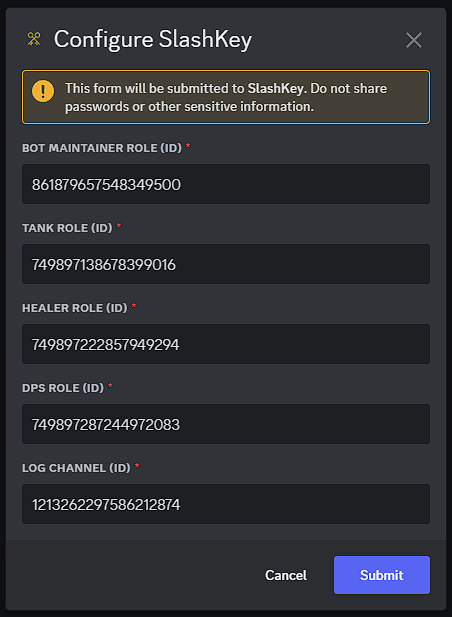
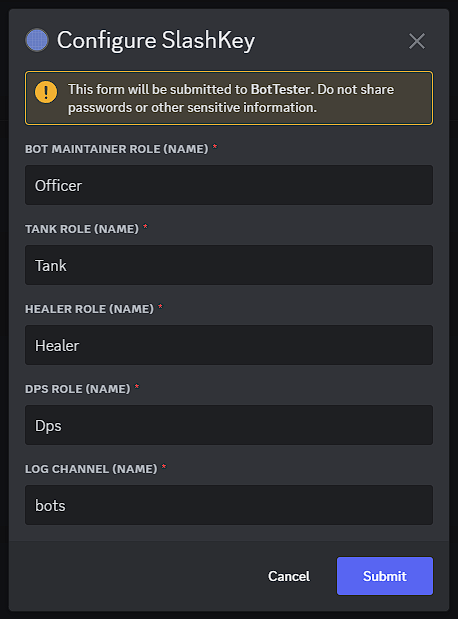
configurate now works with names rather than ids and author on key signup

diff --git a/src/commands/configure/configure.js b/src/commands/configure/configure.js
@@ -12,23 +12,23 @@ const { getGuild, setGuild } = require('../../utils/db');
 const inputFields = [
   {
     customId: 'devRole',
-    label: 'Bot maintainer role (id)',
+    label: 'Bot maintainer role (name)',
   },
   {
     customId: 'tankRole',
-    label: 'Tank role (id)',
+    label: 'Tank role (name)',
   },
   {
     customId: 'healerRole',
-    label: 'Healer role (id)',
+    label: 'Healer role (name)',
   },
   {
     customId: 'dpsRole',
-    label: 'Dps role (id)',
+    label: 'Dps role (name)',
   },
   {
-    customId: 'logChannelId',
-    label: 'Log channel (id)',
+    customId: 'logChannel',
+    label: 'Log channel (name)',
   },
 ];
 
@@ -44,13 +44,13 @@ module.exports = {
     const guildId = guild.id;
     const guildSettings = await getGuild(guildId);
 
-    if (guildSettings && guildSettings.devRole) {
+    if (guildSettings && guildSettings.devRoleId) {
       // if there's saved guildsettings, check if the user has the dev role to execute this command
       const memberForUser = await interaction.guild.members.fetch(
         interaction.user.id
       );
       commandAllowed = memberForUser.roles.cache.some(
-        (r) => r.id === guildSettings.devRole
+        (r) => r.id === guildSettings.devRoleId
       );
     }
 
@@ -104,17 +104,21 @@ module.exports = {
         });
         configuration['debugEnabled'] = 'false';
         configuration['id'] = guildId;
-        await setGuild(configuration);
+
+        convertConfiguration(configuration, guild);
         const validations = validateSettings(configuration, guild);
 
-        let reply =
-          ':white_check_mark: Your configuration has been saved and validated.';
+        let reply = '';
         if (validations?.length) {
           validations.push(
             '\n**Please run the `/configure` command again to fix the errors.\nThe bot will not run correctly until these issues are resolved.**'
           );
           const validationMessages = validations.join('\n');
-          reply = `:x: **Your configuration has some validation errors**\n${validationMessages}`;
+          reply = `:x: **Your configuration was not saved due to some validation errors**\n${validationMessages}`;
+        } else {
+          await setGuild(configuration);
+          reply =
+            ':white_check_mark: Your configuration has been saved and validated.';
         }
         modalInteraction.reply({
           content: reply,
@@ -130,3 +134,31 @@ module.exports = {
     deleted: false,
   },
 };
+
+function convertConfiguration(configuration, guild) {
+  configuration.devRoleId = getRoleIdForName(configuration.devRole, guild);
+  configuration.tankRoleId = getRoleIdForName(configuration.tankRole, guild);
+  configuration.healerRoleId = getRoleIdForName(
+    configuration.healerRole,
+    guild
+  );
+  configuration.dpsRoleId = getRoleIdForName(configuration.dpsRole, guild);
+  configuration.logChannelId = getChannelIdForName(
+    configuration.logChannel,
+    guild
+  );
+}
+
+function getRoleIdForName(roleName, guild) {
+  const role = guild.roles.cache.find(
+    (r) => r.name.toLowerCase() === roleName.toLowerCase()
+  );
+  return role?.id;
+}
+
+function getChannelIdForName(channelName, guild) {
+  const channel = guild.channels.cache.find(
+    (c) => c.name.toLowerCase() === channelName.toLowerCase()
+  );
+  return channel?.id;
+}

diff --git a/src/utils/settings.js b/src/utils/settings.js
@@ -3,10 +3,10 @@ module.exports = {
     // first validate if all properties are available
     let ret = [];
     const settingsToCheck = [
-      'devRole',
-      'tankRole',
-      'healerRole',
-      'dpsRole',
+      'devRoleId',
+      'tankRoleId',
+      'healerRoleId',
+      'dpsRoleId',
       'logChannelId',
     ];
     settingsToCheck.forEach((s) => {
@@ -15,38 +15,38 @@ module.exports = {
       }
     });
     // I could make all of these "else if" statements, but I'd rather have the complete validation message in one go
-    if (!roleExists(settings.devRole, guild)) {
+    if (!roleExists(settings.devRoleId, guild)) {
       ret.push(
-        `* The property \`devRole\` does not match a role on your server`
+        `* The role \`${settings.devRole}\` does not match a role on your server`
       );
     }
-    if (!roleExists(settings.tankRole, guild)) {
+    if (!roleExists(settings.tankRoleId, guild)) {
       ret.push(
-        `* The property \`tankRole\` does not match a role on your server`
+        `* The role \`${settings.tankRole}\` does not match a role on your server`
       );
     }
-    if (!roleExists(settings.healerRole, guild)) {
+    if (!roleExists(settings.healerRoleId, guild)) {
       ret.push(
-        `* The property \`healerRole\` does not match a role on your server`
+        `* The role \`${settings.healerRole}\` does not match a role on your server`
       );
     }
-    if (!roleExists(settings.dpsRole, guild)) {
+    if (!roleExists(settings.dpsRoleId, guild)) {
       ret.push(
-        `* The property \`dpsRole\` does not match a role on your server`
+        `* The role \`${settings.dpsRole}\` does not match a role on your server`
       );
     }
     if (!channelExists(settings.logChannelId, guild)) {
       ret.push(
-        `* The property \`logChannelId\` does not match a channel on your server`
+        `* The channel \`${settings.logChannel}\` does not match a channel on your server`
       );
     }
     return ret;
   },
 };
 
-function roleExists(roleId, guild) {
-  return !!guild.roles.cache.find((r) => r.id === roleId);
+function roleExists(role, guild) {
+  return !!guild.roles.cache.find((r) => r.id === role);
 }
-function channelExists(channelId, guild) {
-  return !!guild.channels.cache.find((c) => c.id === channelId);
+function channelExists(channel, guild) {
+  return !!guild.channels.cache.find((c) => c.id === channel);
 }

diff --git a/src/commands/key/key.js b/src/commands/key/key.js
@@ -121,12 +121,17 @@ module.exports = {
       .setTimestamp()
       .setTitle(title)
       .setDescription(remark ? remark : ' ')
-      .addFields({ name: '\u200B', value: '\u200B', inline: true });
+      .addFields({
+        name: `Author of this run`,
+        value: `<@${interaction.user.id}>`,
+        inline: true,
+      })
+      .addFields({ name: '\u200B', value: 'Signups:', inline: false });
 
     // is a tank needed?
     if (tankNeeded) {
       rolesMissing.push({
-        id: guildSettings.tankRole,
+        id: guildSettings.tankRoleId,
         name: 'Tank',
         emoji: Emoji['Tank'],
       });
@@ -135,7 +140,7 @@ module.exports = {
     // is a healer needed?
     if (healerNeeded) {
       rolesMissing.push({
-        id: guildSettings.healerRole,
+        id: guildSettings.healerRoleId,
         name: 'Healer',
         emoji: Emoji['Healer'],
       });
@@ -144,7 +149,7 @@ module.exports = {
     // are dps needed?
     if (dpsCount > 0) {
       rolesMissing.push({
-        id: guildSettings.dpsRole,
+        id: guildSettings.dpsRoleId,
         name: 'Dps',
         emoji: Emoji['Dps'],
       });
@@ -215,7 +220,7 @@ module.exports = {
       // check if the user has the developer role (devRole)
       const memberForUser = await interaction.guild.members.fetch(user.id);
       const userHasDevRole = memberForUser.roles.cache.some(
-        (r) => r.id === guildSettings.devRole
+        (r) => r.id === guildSettings.devRoleId
       );
 
       logDebug(

diff --git a/src/utils/embed.js b/src/utils/embed.js
@@ -10,7 +10,9 @@ module.exports = {
     if (!embed?.data?.fields) return;
     const userTag = `<@${userId}>`;
     // determine if the current user has already signed (only used for 'add' action)
-    const signed = embed.data.fields.some((f) => f.value === userTag);
+    const signed = embed.data.fields
+      .filter((f) => f.name !== 'Author of this run')
+      .some((f) => f.value === userTag);
     // determine the fields we need based on the role/emoji
     const fields = embed.data.fields.filter((f) => f.name === roleEmoji);
 

diff --git a/src/commands/debug/debug.js b/src/commands/debug/debug.js
@@ -32,13 +32,13 @@ module.exports = {
       return;
     }
 
-    if (guildSettings.devRole) {
+    if (guildSettings.devRoleId) {
       // if there's saved guildsettings, check if the user has the dev role to execute this command
       const memberForUser = await interaction.guild.members.fetch(
         interaction.user.id
       );
       commandAllowed = memberForUser.roles.cache.some(
-        (r) => r.id === guildSettings.devRole
+        (r) => r.id === guildSettings.devRoleId
       );
     } else {
       interaction.reply(

diff --git a/src/events/guildCreate/init-settings.js b/src/events/guildCreate/init-settings.js
@@ -2,5 +2,5 @@ const { setGuild } = require('../../utils/db');
 
 module.exports = async (guild) => {
   console.log(`SlashBot joined a new guild "${guild.name}" (${guild.id}).`);
-  await setGuild({ id: guild.id });
+  await setGuild({ id: guild.id, guildName: guild.name });
 };

diff --git a/README.md b/README.md
@@ -16,6 +16,12 @@ This bot is designed to help you easily create and manage mythic+ runs within yo
 
 ## 📑 Changelog
 
+### 1.1.0 - Names over Id's
+
+- Add author information to signup message of the the `/key` command
+- Update the `/configure` command so you can add the names of the roles/channels in the modal in stead of the id's
+  - id's will be fetched by the bot and stored alongside the names, if you ever change a rolename or channel name, the bot should keep working ... should
+
 ### 1.0.0 - Initial commit
 
 - Added Dragonflight Season 3 dungeons
@@ -59,13 +65,13 @@ _(all fields are required for the bot to run smoothly)_
 
 ![SlashKey configure modal example](/assets/slashkey-configurate-modal.png 'SlashKey configure modal example')
 
-| Setting             | Description                            | Used for                                                                                                                                                                               |
-| ------------------- | -------------------------------------- | -------------------------------------------------------------------------------------------------------------------------------------------------------------------------------------- |
-| BOT MAINTAINER ROLE | The role id for admins of the bot      | Using the `🔒` reaction on a posted run can only be done by the author of the key or a user with this role, using the `/configure` or `/debug` command is also restricted to this role |
-| TANK ROLE           | The role id used for the `Tank` role   | Role used to ping tanks, should they be needed for a posted run                                                                                                                        |
-| HEALER ROLE         | The role id used for the `Healer` role | Role used to ping healers, should they be needed for a posted run                                                                                                                      |
-| DPS ROLE            | The role id used for the `Dps` role    | Role used to ping dps, should they be needed for a posted run                                                                                                                          |
-| LOG CHANNEL         | The channel id the bot can log to      | The logchannel is used for the bot's error messages and debug messages (if debugging is enabled, it's not by default)                                                                  |
+| Setting             | Description                             | Used for                                                                                                                                                                               |
+| ------------------- | --------------------------------------- | -------------------------------------------------------------------------------------------------------------------------------------------------------------------------------------- |
+| BOT MAINTAINER ROLE | The rolename for admins of the bot      | Using the `🔒` reaction on a posted run can only be done by the author of the key or a user with this role, using the `/configure` or `/debug` command is also restricted to this role |
+| TANK ROLE           | The rolename used for the `Tank` role   | Role used to ping tanks, should they be needed for a posted run                                                                                                                        |
+| HEALER ROLE         | The rolename used for the `Healer` role | Role used to ping healers, should they be needed for a posted run                                                                                                                      |
+| DPS ROLE            | The rolename used for the `Dps` role    | Role used to ping dps, should they be needed for a posted run                                                                                                                          |
+| LOG CHANNEL         | The channelname the bot can log to      | The logchannel is used for the bot's error messages and debug messages (if debugging is enabled, it's not by default)                                                                  |
 
 ### 3⃣ Validate the configuration
 
